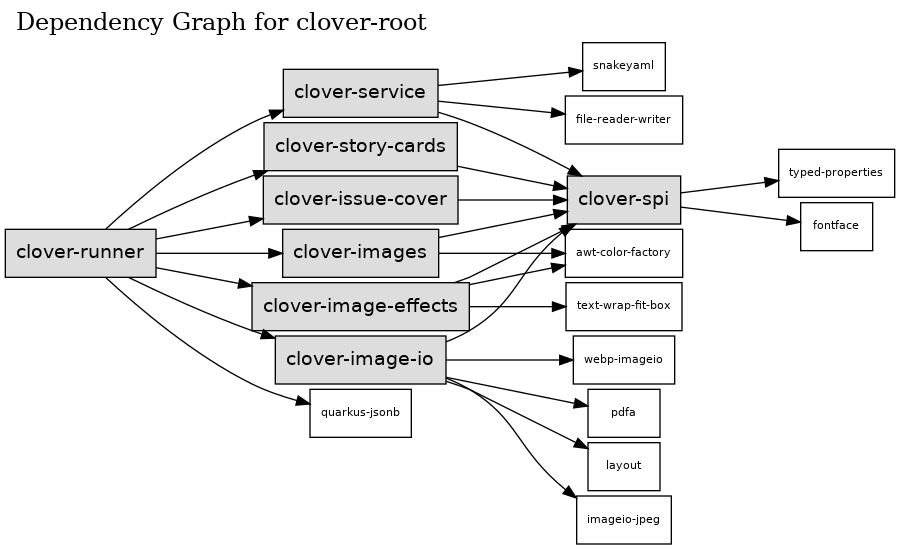
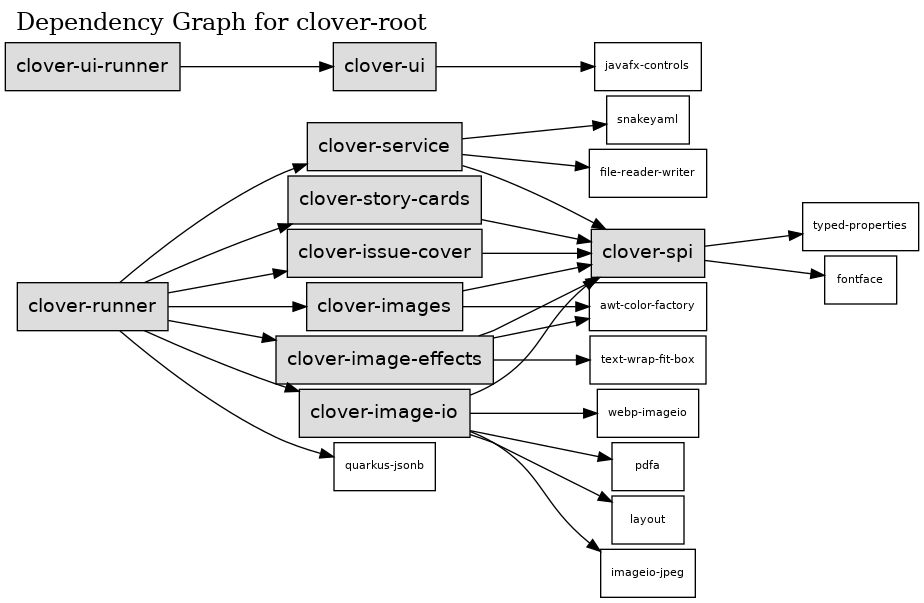
clover-ui: create stub JavaFX app

diff --git a/clover-ui/src/main/java/net/kemitix/clover/ui/MainUI.java b/clover-ui/src/main/java/net/kemitix/clover/ui/MainUI.java
@@ -1,0 +1,28 @@
+package net.kemitix.clover.ui;
+
+import javafx.application.Application;
+import javafx.fxml.FXMLLoader;
+import javafx.scene.Parent;
+import javafx.scene.Scene;
+import javafx.stage.Stage;
+import lombok.SneakyThrows;
+
+public class MainUI extends Application {
+
+    @Override
+    public void start(Stage stage) {
+        stage.setScene(new Scene(loadFXML("clover"), 640, 480));
+        stage.show();
+    }
+
+    @SneakyThrows
+    private Parent loadFXML(String fxml) {
+        return new FXMLLoader(MainUI.class.getResource(fxml + ".fxml"))
+                .load();
+    }
+
+    public static void main(String[] args) {
+        launch();
+    }
+
+}
